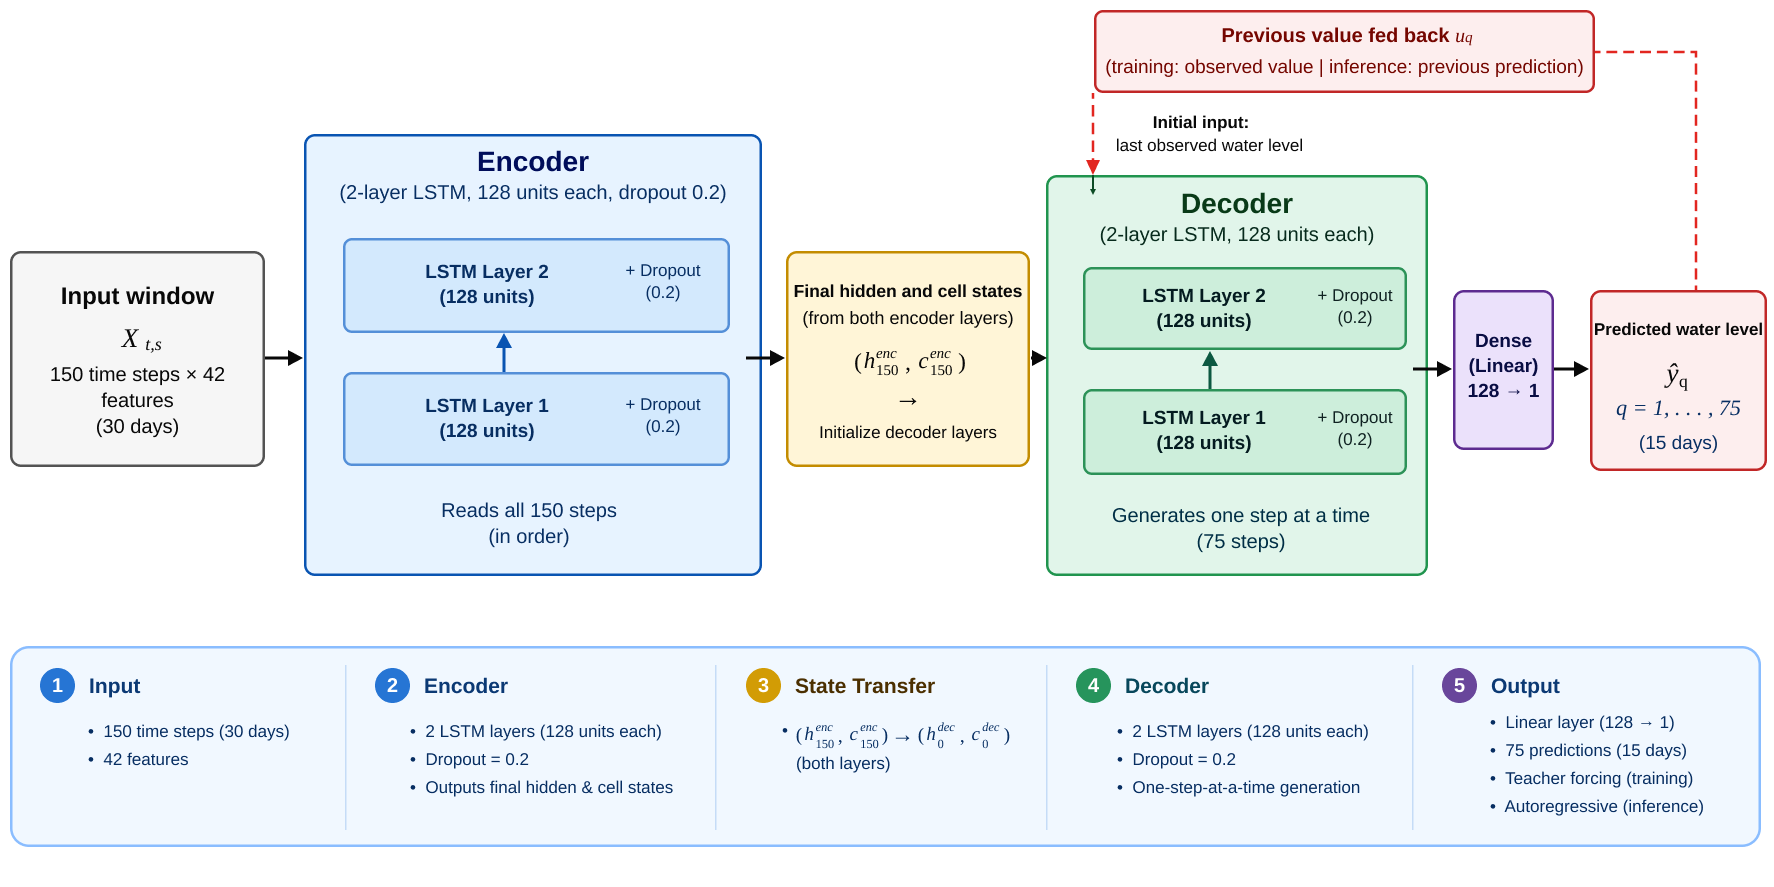
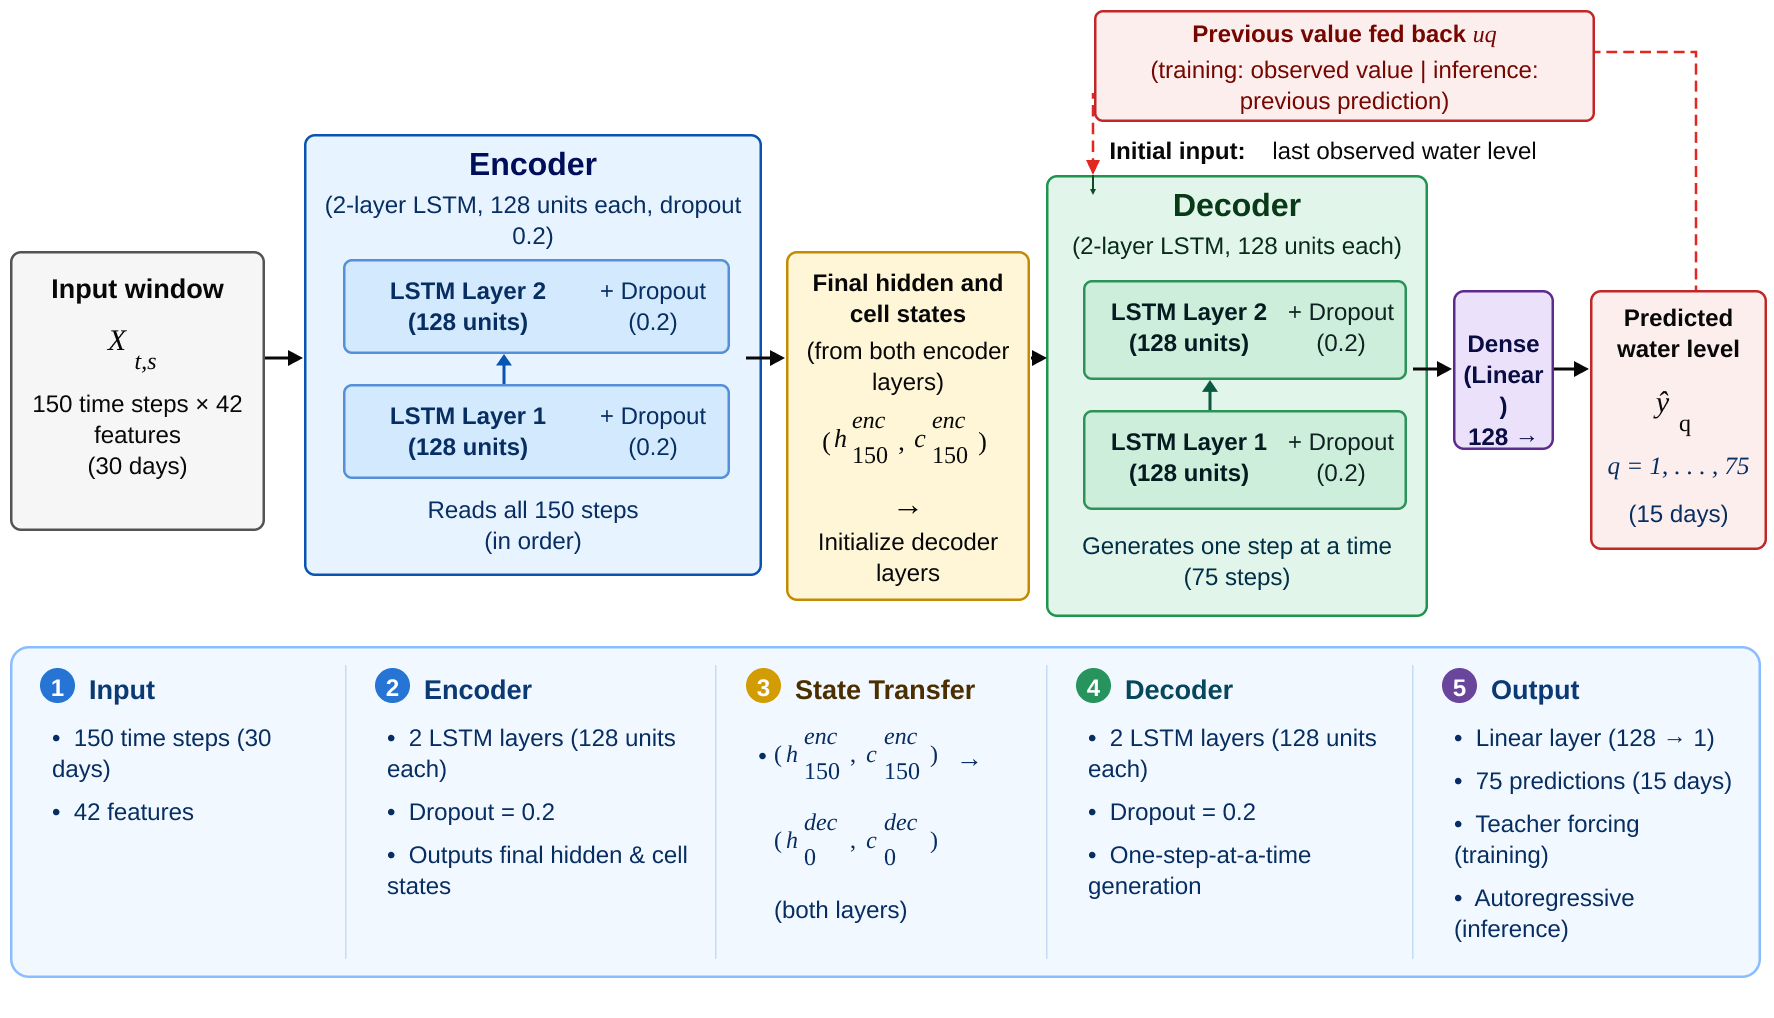
chap-2,3 s all fig ,font increamented

diff --git a/Chapter3.tex b/Chapter3.tex
@@ -350,7 +350,7 @@ covered separately in Section~\ref{sec:3.9.6}. Each step is described below.
 
 \begin{figure}[htbp]
     \centering
-    \includegraphics[width=0.9\textwidth]{figures2/fig3-4-preprocessing-pipeline.png}
+    \includegraphics[width=\textwidth]{figures2/fig3-4-preprocessing-pipeline.png}
     \caption{Data preprocessing pipeline flowchart.}
     \label{fig:3.4}
 \end{figure}
@@ -407,7 +407,7 @@ Table~\ref{tab:3.4} summarizes the processing applied to each variable.
 
 \begin{figure}[htbp]
     \centering
-    \includegraphics[width=0.9\textwidth]{figures2/fig3-5-temporal-alignment.png}
+    \includegraphics[width=\textwidth]{figures2/fig3-5-temporal-alignment.png}
     \caption{Temporal alignment and data-resolution diagram.}
     \label{fig:3.5}
 \end{figure}
@@ -509,7 +509,7 @@ summarizes the resulting 42 features by group.
 
 \begin{figure}[htbp]
     \centering
-    \includegraphics[width=0.85\textwidth]{figures2/feature-eng.png}
+    \includegraphics[width=\textwidth]{figures2/feature-eng.png}
     \caption{Feature engineering workflow.}
     \label{fig:3.9.6a}
 \end{figure}
@@ -614,7 +614,7 @@ only tidal stations in the dataset, five of its six.
 
 \begin{figure}[htbp]
     \centering
-    \includegraphics[width=0.8\textwidth]{figures2/fig3-6a-cluster-distribution.png}
+    \includegraphics[width=0.9\textwidth]{figures2/fig3-6a-cluster-distribution.png}
     \caption{Spatial distribution of the 25 stations by cluster (FFWC~\cite{ffwc_website}).}
     \label{fig:3.6}
 \end{figure}
@@ -672,7 +672,7 @@ clustered component.
 
 \begin{figure}[htbp]
     \centering
-    \includegraphics[width=0.9\textwidth]{figures2/fig3-7-window-diagram.png}
+    \includegraphics[width=\textwidth]{figures2/fig3-7-window-diagram.png}
     \caption{Time-series input/output window diagram.}
     \label{fig:3.7}
 \end{figure}
@@ -753,7 +753,7 @@ output layer.
 
 \begin{figure}[htbp]
     \centering
-    \includegraphics[width=0.95\textwidth]{figures2/fig3-8-edlstm-architecture.png}
+    \includegraphics[width=\textwidth]{figures2/fig3-8-edlstm-architecture.png}
     \caption{Encoder--decoder LSTM architecture.}
     \label{fig:3.8}
 \end{figure}
@@ -879,7 +879,7 @@ meet.
 
 \begin{figure}[htbp]
     \centering
-    \includegraphics[width=0.95\textwidth]{figures2/fig3-9-federated-workflow.png}
+    \includegraphics[width=\textwidth]{figures2/fig3-9-federated-workflow.png}
     \caption{Federated workflow of CFL-EDLSTM.}
     \label{fig:3.9}
 \end{figure}
